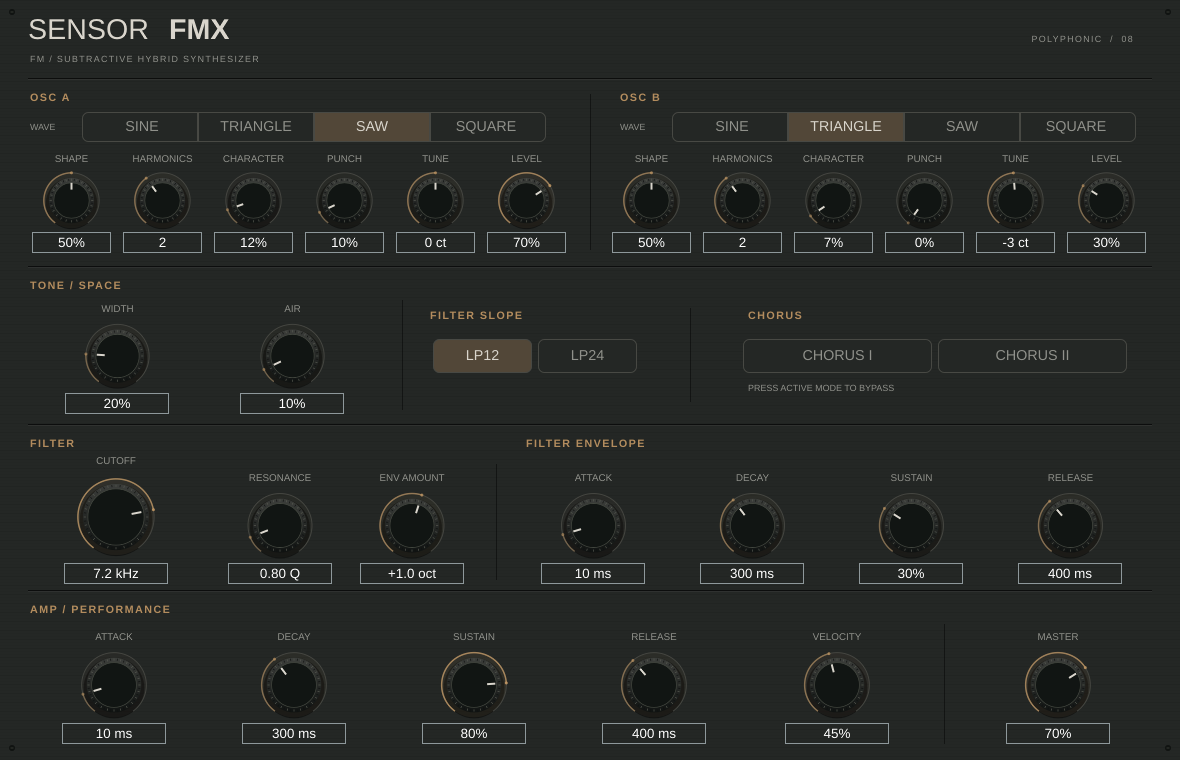
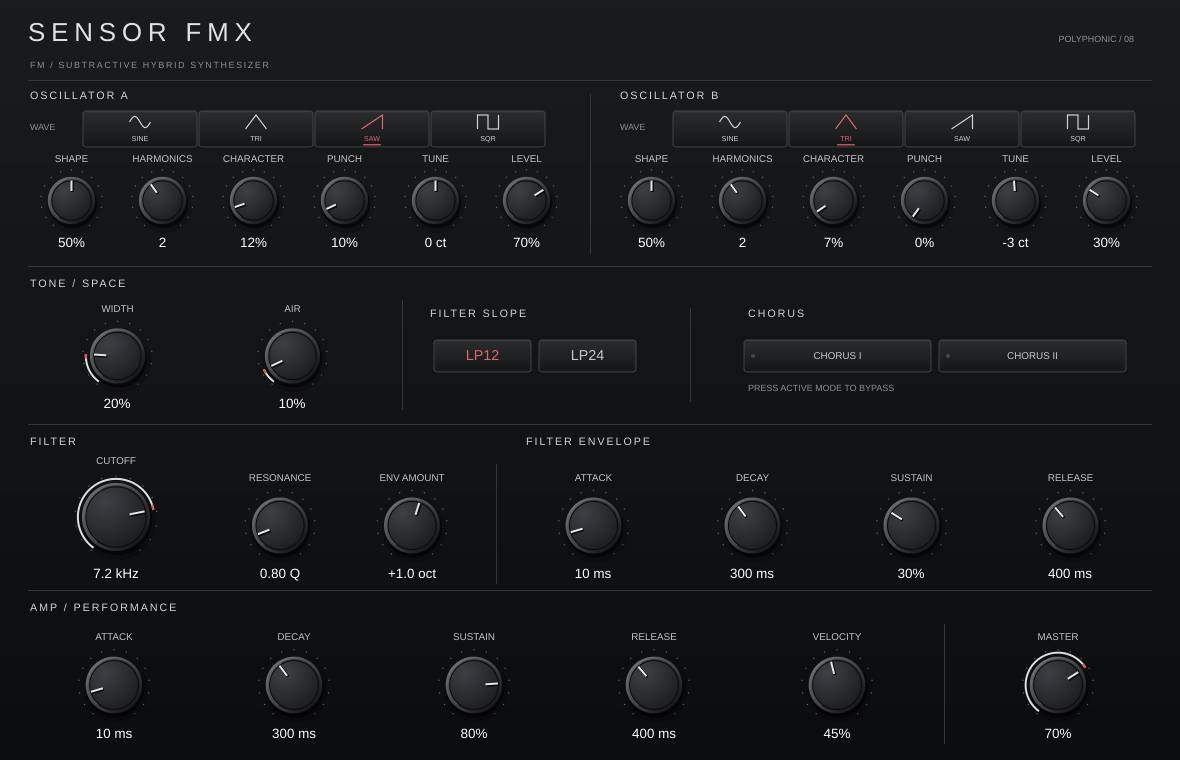
Align FMX GUI with SENSOR FLUX family styling

diff --git a/Source/SensorLookAndFeel.h b/Source/SensorLookAndFeel.h
@@ -1,0 +1,92 @@
+#pragma once
+#include <juce_gui_basics/juce_gui_basics.h>
+#include <array>
+
+// Adapted from AakeKBergh/SensorFlux, Source/InstrumentLook.h
+// Reference commit: 1e67934601b3aacd980b504b20b285921c9def06
+class SensorLookAndFeel : public juce::LookAndFeel_V4 {
+    std::array<juce::Path,4> glyphs;
+    const std::array<juce::String,4> waveNames{{"SINE","TRI","SAW","SQR"}};
+public:
+    SensorLookAndFeel(){
+        for(int i=0;i<=24;++i){float x=float(i)/24,y=.5f-float(std::sin(i*6.283185307179586/24))*.4f;if(i==0)glyphs[0].startNewSubPath(x,y);else glyphs[0].lineTo(x,y);}
+        glyphs[1].startNewSubPath(0,1);glyphs[1].lineTo(.5f,0);glyphs[1].lineTo(1,1);
+        glyphs[2].startNewSubPath(0,1);glyphs[2].lineTo(1,0);glyphs[2].lineTo(1,1);
+        glyphs[3].startNewSubPath(0,1);glyphs[3].lineTo(0,0);glyphs[3].lineTo(.5f,0);glyphs[3].lineTo(.5f,1);glyphs[3].lineTo(1,1);glyphs[3].lineTo(1,0);
+        setColour(juce::Label::textColourId,juce::Colour(0xffc3c4c6));
+        setColour(juce::Slider::textBoxTextColourId,juce::Colour(0xffd6d7da));
+        setColour(juce::Slider::textBoxBackgroundColourId,juce::Colours::transparentBlack);
+        setColour(juce::Slider::textBoxOutlineColourId,juce::Colours::transparentBlack);
+        setColour(juce::TextButton::textColourOffId,juce::Colour(0xffc8c9cb));
+        setColour(juce::TextButton::textColourOnId,juce::Colour(0xffdf686d));
+    }
+    juce::Label* createSliderTextBox(juce::Slider& slider) override {
+        auto* box=juce::LookAndFeel_V4::createSliderTextBox(slider);
+        box->setColour(juce::Label::outlineColourId,juce::Colours::transparentBlack);
+        box->setColour(juce::Label::backgroundColourId,juce::Colours::transparentBlack);
+        box->setColour(juce::TextEditor::outlineColourId,juce::Colour(0xff444648));
+        box->setColour(juce::TextEditor::focusedOutlineColourId,juce::Colour(0xffbf535c));
+        return box;
+    }
+    void drawLabel(juce::Graphics& g,juce::Label& label) override {
+        if(dynamic_cast<juce::Slider*>(label.getParentComponent())==nullptr) {
+            juce::LookAndFeel_V4::drawLabel(g,label);return;
+        }
+        if(label.isBeingEdited()) return;
+        g.setColour(label.findColour(juce::Label::textColourId).withMultipliedAlpha(label.isEnabled()?1.0f:0.5f));
+        g.setFont(getLabelFont(label));
+        g.drawFittedText(label.getText(),label.getLocalBounds(),label.getJustificationType(),1);
+    }
+    void drawRotarySlider(juce::Graphics& g,int x,int y,int w,int h,float value,float start,float end,juce::Slider& slider) override {
+        const float radius=std::min(w,h)*.36f,cx=x+w*.5f,cy=y+h*.5f;
+        const auto bounds=juce::Rectangle<float>(cx-radius,cy-radius,2*radius,2*radius);
+        for(int i=0;i<=14;++i){const float a=start+(end-start)*i/14;
+            g.setColour(juce::Colour(0xff626366));g.fillEllipse(cx+std::sin(a)*(radius+8)-.7f,cy-std::cos(a)*(radius+8)-.7f,1.4f,1.4f);}
+        const bool large=slider.getProperties().getWithDefault("sensorProminent",false) || slider.getName()=="FLUX" || slider.getName()=="Output";
+        g.setColour(juce::Colours::black.withAlpha(.16f));g.fillEllipse(bounds.translated(2,5).expanded(5));
+        g.setColour(juce::Colours::black.withAlpha(.55f));g.fillEllipse(bounds.translated(1,3).expanded(2));
+        g.setGradientFill(juce::ColourGradient(juce::Colour(0xff7b7d80),cx-radius,cy-radius,juce::Colour(0xff070809),cx+radius,cy+radius,false));g.fillEllipse(bounds.expanded(1));
+        g.setGradientFill(juce::ColourGradient(juce::Colour(0xff3e4043),cx-radius*.35f,cy-radius*.45f,juce::Colour(0xff111214),cx+radius,cy+radius,true));g.fillEllipse(bounds.reduced(1.5f));
+        g.setColour(juce::Colour(0xff090a0b));g.drawEllipse(bounds.reduced(3),1);
+        juce::Path rim;rim.addCentredArc(cx,cy,radius-2,radius-2,0,3.8f,5.8f,true);g.setColour(juce::Colours::white.withAlpha(.20f));g.strokePath(rim,juce::PathStrokeType(.9f));
+        const float a=start+value*(end-start);
+        g.setColour(juce::Colours::black.withAlpha(.8f));g.drawLine(cx+std::sin(a)*radius*.42f+1,cy-std::cos(a)*radius*.42f+1,cx+std::sin(a)*radius*.88f+1,cy-std::cos(a)*radius*.88f+1,3);
+        g.setColour(juce::Colour(0xffe5e6e8));g.drawLine(cx+std::sin(a)*radius*.42f,cy-std::cos(a)*radius*.42f,cx+std::sin(a)*radius*.88f,cy-std::cos(a)*radius*.88f,2);
+        if(large){juce::Path arc;arc.addCentredArc(cx,cy,radius+5,radius+5,0,start,a,true);g.setColour(juce::Colour(0xffdcdddf));g.strokePath(arc,juce::PathStrokeType(2));
+            if(value>0){juce::Path tip;tip.addCentredArc(cx,cy,radius+5,radius+5,0,std::max(start,a-.14f),a,true);g.setColour(juce::Colour(0xffdc5a62));g.strokePath(tip,juce::PathStrokeType(2.3f));}}
+
+    }
+    void drawButtonBackground(juce::Graphics& g,juce::Button& b,const juce::Colour&,bool over,bool down) override {
+        auto r=b.getLocalBounds().toFloat().reduced(1);
+        g.setColour(juce::Colours::black.withAlpha(.5f));g.fillRoundedRectangle(r.translated(0,2),3);
+        g.setGradientFill(juce::ColourGradient(juce::Colour(down?0xff171819:0xff2b2d2f),0,0,juce::Colour(0xff151617),0,r.getBottom(),false));g.fillRoundedRectangle(r,3);
+        g.setColour(juce::Colour(over?0xff68696b:0xff444648));g.drawRoundedRectangle(r,3,1);
+        g.setColour(juce::Colours::white.withAlpha(down?.025f:.10f));g.drawLine(r.getX()+4,r.getY()+1,r.getRight()-4,r.getY()+1,.6f);
+        if(b.getToggleState() && b.getComponentID().startsWith("wave")){g.setColour(juce::Colour(0xffbf535c));g.fillRoundedRectangle(r.getCentreX()-9,r.getBottom()-3,18,1.5f,.6f);}
+    }
+    void drawButtonText(juce::Graphics& g,juce::TextButton& b,bool over,bool down) override {
+        const bool wave=b.getComponentID().startsWith("wave");
+        if(b.getComponentID().startsWith("chorus") || b.getComponentID().startsWith("reverb")){
+            const bool active=b.isEnabled() && b.getToggleState() && b.getButtonText()!="OFF";
+            auto textBounds=b.getLocalBounds().reduced(18,0);
+            const float x=10,y=b.getHeight()*.5f;
+            g.setColour(juce::Colour(active?0xfff2666d:0xff454749));g.fillEllipse(x-2,y-2,4,4);
+            if(active){g.setColour(juce::Colour(0xffec5962).withAlpha(.12f));g.fillEllipse(x-6,y-6,12,12);}
+            g.setColour(juce::Colour(active?0xffdf686d:0xffc8c9cc));g.setFont(11);
+            g.drawText(b.getButtonText(),textBounds,juce::Justification::centred);return;
+        }
+        if(!wave){juce::LookAndFeel_V4::drawButtonText(g,b,over,down);return;}
+        auto r=b.getLocalBounds().toFloat();const float cx=r.getCentreX(),y=5,w=21,h=14;
+        const int index=b.getComponentID().getTrailingIntValue();
+        g.setColour(juce::Colour(b.getToggleState()?0xffdf686d:0xffd0d1d4));g.strokePath(glyphs[size_t(index)],juce::PathStrokeType(1.2f),juce::AffineTransform::scale(w,h).translated(cx-w*.5f,y));
+        g.setFont(8);g.drawText(waveNames[size_t(index)],0,23,b.getWidth(),12,juce::Justification::centred);
+    }
+    void drawToggleButton(juce::Graphics& g,juce::ToggleButton& b,bool over,bool down) override {
+        const float cx=b.getWidth()*.5f,cy=b.getHeight()*.63f;
+        if(b.getToggleState()){g.setColour(juce::Colour(0xffd85c62).withAlpha(.12f));g.fillEllipse(cx-9,cy-32,18,18);}
+        g.setColour(juce::Colour(b.getToggleState()?0xffe1666d:0xff454749));g.fillEllipse(cx-2.5f,cy-25,5,5);
+        g.setColour(juce::Colours::black);g.fillEllipse(cx-15,cy-11,30,30);
+        g.setGradientFill(juce::ColourGradient(juce::Colour(over||down?0xff424448:0xff323437),cx,cy-10,juce::Colour(0xff17181a),cx,cy+17,false));g.fillEllipse(cx-12,cy-9,24,25);
+        g.setColour(juce::Colour(0xffc3c4c6));g.setFont(10);g.drawText(b.getButtonText().toUpperCase(),0,0,b.getWidth(),18,juce::Justification::centred);
+    }
+};

diff --git a/Source/PluginEditor.cpp b/Source/PluginEditor.cpp
@@ -1,4 +1,5 @@
 #include "PluginEditor.h"
+#include "SensorStyle.h"
 SensorFMXEditor::SensorFMXEditor(SensorFMXProcessor& p)
     : AudioProcessorEditor(p),processor(p),waveA(p.state,"aWave"),waveB(p.state,"bWave"),
       slope(p.state,"filterSlope",{"LP12","LP24"},{0,1},false),
@@ -26,7 +27,7 @@ void SensorFMXEditor::place(int first,int count,juce::Rectangle<int> area) {
     for(int i=0;i<count;++i) knobs[static_cast<size_t>(first+i)]->setBounds(area.removeFromLeft(width).reduced(6,0));
 }
 void SensorFMXEditor::resized() {
-    waveA.setBounds(82,112,464,30); waveB.setBounds(672,112,464,30);
+    waveA.setBounds(82,110,464,38); waveB.setBounds(672,110,464,38);
     place(0,6,{26,150,548,103});
     place(6,6,{606,150,548,103});
     place(12,2,{30,300,350,114});
@@ -39,44 +40,19 @@ void SensorFMXEditor::resized() {
 
 }
 void SensorFMXEditor::paint(juce::Graphics& g) {
-    g.fillAll(juce::Colour(0xff242725));
-    // Almost invisible horizontal machining lines; deterministic and image-free.
-    for(int y=0;y<getHeight();y+=3) {
-        g.setColour(juce::Colours::black.withAlpha(y%9==0 ? 0.07f : 0.025f));
-        g.drawHorizontalLine(y,0,static_cast<float>(getWidth()));
-    }
-    g.setColour(CustomLookAndFeel::text);
-    g.setFont(juce::FontOptions(32.0f)); g.drawText("SENSOR",28,10,141,40,juce::Justification::centredLeft);
-    g.setFont(juce::FontOptions(32.0f,juce::Font::bold)); g.drawText("FMX",169,10,100,40,juce::Justification::centredLeft);
-    g.setColour(CustomLookAndFeel::muted);
-    g.setFont(juce::Font(juce::FontOptions(10.0f)).withExtraKerningFactor(0.13f));
-    g.drawText("FM / SUBTRACTIVE HYBRID SYNTHESIZER",30,49,600,20,juce::Justification::centredLeft);
-    g.drawText("POLYPHONIC  /  08",870,28,264,22,juce::Justification::centredRight);
-    auto line=[&](int y,int left,int right) {
-        g.setColour(juce::Colours::black.withAlpha(0.65f)); g.drawHorizontalLine(y,static_cast<float>(left),static_cast<float>(right));
-        g.setColour(juce::Colours::white.withAlpha(0.055f)); g.drawHorizontalLine(y+1,static_cast<float>(left),static_cast<float>(right));
-    };
-    g.setFont(juce::FontOptions(10.0f)); g.setColour(CustomLookAndFeel::muted);
+    SensorStyle::panel(g,getWidth(),getHeight());
+    SensorStyle::branding(g,"FMX","FM / SUBTRACTIVE HYBRID SYNTHESIZER");
+    g.setFont(juce::FontOptions(10.0f));g.setColour(SensorStyle::secondary);
+    g.drawText("POLYPHONIC / 08",870,28,264,22,juce::Justification::centredRight);
     g.drawText("WAVE",30,112,48,30,juce::Justification::centredLeft);
     g.drawText("WAVE",620,112,48,30,juce::Justification::centredLeft);
-    for(int y : {78,266,424,590}) line(y,28,1152);
-    g.setColour(juce::Colours::black.withAlpha(0.45f));
-    g.drawVerticalLine(590,94,250); g.drawVerticalLine(402,300,410);
-    g.drawVerticalLine(690,308,402); g.drawVerticalLine(496,464,580); g.drawVerticalLine(944,624,744);
-    auto title=[&](int x,int y,const juce::String& text) {
-        g.setColour(CustomLookAndFeel::amber.withAlpha(0.9f));
-        g.setFont(juce::Font(juce::FontOptions(12.0f,juce::Font::bold)).withExtraKerningFactor(0.12f));
-        g.drawText(text,x,y,480,24,juce::Justification::centredLeft);
-    };
-    title(30,86,"OSC A"); title(620,86,"OSC B");
-    title(30,274,"TONE / SPACE");
-    title(430,304,"FILTER SLOPE"); title(748,304,"CHORUS");
-    title(30,432,"FILTER"); title(526,432,"FILTER ENVELOPE");
-    title(30,598,"AMP / PERFORMANCE");
-    g.setFont(juce::FontOptions(10.0f)); g.setColour(CustomLookAndFeel::muted);
+    g.setColour(SensorStyle::rule);
+    for(int y : {80,266,424,590}) g.drawHorizontalLine(y,28,1152);
+    for(auto line : {juce::Rectangle<int>(590,94,1,160),{402,300,1,110},{690,308,1,94},{496,464,1,120},{944,624,1,120}}) g.fillRect(line);
+    const auto title=[&](int x,int y,const juce::String& text) { SensorStyle::heading(g,text,x,y,480); };
+    title(30,84,"OSCILLATOR A");title(620,84,"OSCILLATOR B");
+    title(30,272,"TONE / SPACE");title(430,302,"FILTER SLOPE");title(748,302,"CHORUS");
+    title(30,430,"FILTER");title(526,430,"FILTER ENVELOPE");title(30,596,"AMP / PERFORMANCE");
+    g.setFont(juce::FontOptions(10.0f));g.setColour(SensorStyle::secondary);
     g.drawText("PRESS ACTIVE MODE TO BYPASS",748,378,390,20,juce::Justification::centredLeft);
-    for(auto point : {juce::Point<float>{12,12},{1168,12},{12,748},{1168,748}}) {
-        g.setColour(juce::Colour(0xff101311)); g.fillEllipse(point.x-3,point.y-3,6,6);
-        g.setColour(juce::Colour(0xff474a43)); g.drawLine(point.x-1.5f,point.y,point.x+1.5f,point.y,0.7f);
-    }
 }

diff --git a/Source/CustomLookAndFeel.h b/Source/CustomLookAndFeel.h
@@ -1,45 +1,4 @@
 #pragma once
-#include <juce_gui_basics/juce_gui_basics.h>
-class CustomLookAndFeel : public juce::LookAndFeel_V4 {
-public:
-    inline static const juce::Colour amber{0xffc49965}, text{0xffd9d5cc}, muted{0xff90918b};
-    CustomLookAndFeel() {
-        setColour(juce::Slider::textBoxTextColourId,text);
-        setColour(juce::Slider::textBoxBackgroundColourId,juce::Colours::transparentBlack);
-        setColour(juce::Slider::textBoxOutlineColourId,juce::Colours::transparentBlack);
-        setColour(juce::TextEditor::highlightColourId,amber.withAlpha(0.25f));
-        setColour(juce::ComboBox::backgroundColourId,juce::Colour(0xff202222));
-        setColour(juce::ComboBox::textColourId,text);
-        setColour(juce::ComboBox::outlineColourId,juce::Colour(0xff484944));
-        setColour(juce::ComboBox::arrowColourId,amber);
-        setColour(juce::PopupMenu::backgroundColourId,juce::Colour(0xff202222));
-        setColour(juce::PopupMenu::highlightedBackgroundColourId,juce::Colour(0xff454039));
-        setColour(juce::PopupMenu::textColourId,text);
-    }
-    void drawRotarySlider(juce::Graphics& g,int x,int y,int w,int h,float value,float begin,float end,juce::Slider& slider) override {
-        const float radius=juce::jmin(w,h)*0.36f;
-        const juce::Point<float> centre{static_cast<float>(x)+w*0.5f,static_cast<float>(y)+h*0.5f};
-        const auto body=juce::Rectangle<float>(radius*2,radius*2).withCentre(centre);
-        g.setColour(juce::Colours::black.withAlpha(0.45f)); g.fillEllipse(body.translated(0,3).expanded(3));
-        g.setColour(amber.withAlpha(0.025f+0.07f*value)); g.fillEllipse(body.expanded(5));
-        juce::Path track,lit;
-        track.addCentredArc(centre.x,centre.y,radius+5,radius+5,0,begin,end,true);
-        lit.addCentredArc(centre.x,centre.y,radius+5,radius+5,0,begin,begin+value*(end-begin),true);
-        g.setColour(juce::Colour(0xff454641)); g.strokePath(track,juce::PathStrokeType(1));
-        g.setColour(amber.withAlpha(slider.isEnabled() ? 0.3f+0.6f*value : 0.2f)); g.strokePath(lit,juce::PathStrokeType(1.5f));
-        g.setGradientFill(juce::ColourGradient(juce::Colour(0xff3c3e3b),centre.x,body.getY(),juce::Colour(0xff101312),centre.x,body.getBottom(),false));
-        g.fillEllipse(body);
-        for(int i=0;i<48;++i) {
-            const float angle=juce::MathConstants<float>::twoPi*i/48.0f;
-            const auto unit=juce::Point<float>(std::sin(angle),-std::cos(angle));
-            g.setColour(i%2 ? juce::Colour(0xff101211) : juce::Colour(0xff565850));
-            g.drawLine({centre+unit*(radius-3),centre+unit*(radius-0.8f)},0.7f);
-        }
-        g.setColour(juce::Colour(0xff111513)); g.fillEllipse(body.reduced(5));
-        g.setColour(juce::Colour(0xff454941)); g.drawEllipse(body.reduced(5),0.7f);
-        const float angle=begin+value*(end-begin);
-        const auto unit=juce::Point<float>(std::sin(angle),-std::cos(angle));
-        g.setColour(text); g.drawLine({centre+unit*(radius*0.48f),centre+unit*(radius*0.78f)},2.0f);
-        g.setColour(amber.withAlpha(0.5f+value*0.5f)); g.fillEllipse(juce::Rectangle<float>(3,3).withCentre(centre+unit*(radius+5)));
-    }
-};
+#include "SensorLookAndFeel.h"
+// Compatibility name for FMX components. New SENSOR products can use the family class directly.
+using CustomLookAndFeel = SensorLookAndFeel;

diff --git a/Source/CameraKnob.h b/Source/CameraKnob.h
@@ -7,6 +7,7 @@ public:
         slider.setSliderStyle(juce::Slider::RotaryHorizontalVerticalDrag);
         slider.setTextBoxStyle(juce::Slider::TextBoxBelow,false,104,21);
         slider.setName(title); slider.setTitle(title);
+        slider.getProperties().set("sensorProminent",id=="cutoff" || id=="width" || id=="air" || id=="master");
         if(id.endsWith("Shape")) slider.setTooltip("Reshape the waveform. Centre is neutral; Square adjusts pulse width.");
         if(id.endsWith("Harmonics")) slider.setTooltip("Choose a musical harmonic relationship for the coloration. Try 1, 2 or 3 first.");
         if(id.endsWith("Character")) slider.setTooltip("Add harmonic richness. Lower settings stay gentle; high settings become experimental.");
@@ -17,7 +18,7 @@ public:
         if(id=="velocity") slider.setTooltip("Control how strongly playing dynamics affect loudness and filter brightness.");
         label.setText(title,juce::dontSendNotification);
         label.setJustificationType(juce::Justification::centred);
-        label.setFont(juce::FontOptions(11.0f)); label.setColour(juce::Label::textColourId,CustomLookAndFeel::muted);
+        label.setFont(juce::FontOptions(11.0f)); label.setColour(juce::Label::textColourId,juce::Colour(0xffc3c4c6));
         addAndMakeVisible(slider); addAndMakeVisible(label);
         attachment=std::make_unique<juce::AudioProcessorValueTreeState::SliderAttachment>(state,id,slider);
         slider.textFromValueFunction=[id](double v) {

diff --git a/Tests/SmokeTests.cpp b/Tests/SmokeTests.cpp
@@ -209,7 +209,19 @@ int main() {
         require(restored.state.getRawParameterValue("width")->load()==0 && restored.state.getRawParameterValue("air")->load()==0 && restored.state.getRawParameterValue("velocity")->load()==1,"Legacy macro defaults incorrect"); ++checks;
         // Exercise all APVTS attachments and layout under an X display.
         SensorFMXProcessor ui;
+        std::vector<float> beforeEditor;
+        for(auto* parameter : ui.getParameters()) beforeEditor.push_back(parameter->getValue());
         std::unique_ptr<juce::AudioProcessorEditor> editor(ui.createEditor());
+        for(int i=0;i<ui.getParameters().size();++i)
+            require(ui.getParameters()[i]->getValue()==beforeEditor[static_cast<size_t>(i)],"Editor reset a parameter");
+        ++checks;
+        const auto children=editor->getChildren();
+        for(int i=0;i<children.size();++i) {
+            require(editor->getLocalBounds().contains(children[i]->getBounds()),"Control outside editor");
+            for(int j=i+1;j<children.size();++j)
+                require(!children[i]->getBounds().intersects(children[j]->getBounds()),"Overlapping control groups");
+        }
+        ++checks;
         require(editor->getWidth()==1180,"Editor failed to initialise");
         int sliders=0,buttons=0;
         std::function<void(juce::Component&)> visit=[&](juce::Component& component) {

diff --git a/Source/SensorStyle.h b/Source/SensorStyle.h
@@ -1,0 +1,21 @@
+#pragma once
+#include <juce_gui_basics/juce_gui_basics.h>
+// Shared SENSOR-family panel and typography tokens, taken from FLUX's editor.
+namespace SensorStyle {
+inline const juce::Colour panelTop{0xff1a1b1d},panelBottom{0xff0c0d0f},rule{0xff353638};
+inline const juce::Colour ink{0xffe0e1e3},secondary{0xff8e9094},headingInk{0xffd4d5d7};
+inline void panel(juce::Graphics& g,int width,int height) {
+    g.setGradientFill(juce::ColourGradient(panelTop,0,0,panelBottom,0,static_cast<float>(height),false));
+    g.fillRect(0,0,width,height);
+}
+inline void heading(juce::Graphics& g,const juce::String& title,int x,int y,int width) {
+    g.setFont(juce::Font(juce::FontOptions(12.0f)).withExtraKerningFactor(0.16f));
+    g.setColour(headingInk);g.drawText(title,x,y,width,24,juce::Justification::centredLeft);
+}
+inline void branding(juce::Graphics& g,const juce::String& model,const juce::String& subtitle) {
+    g.setColour(ink);g.setFont(juce::Font(juce::FontOptions(29.0f)).withExtraKerningFactor(0.2f));
+    g.drawText("SENSOR "+model,28,14,650,38,juce::Justification::centredLeft);
+    g.setColour(secondary);g.setFont(juce::Font(juce::FontOptions(10.0f)).withExtraKerningFactor(0.16f));
+    g.drawText(subtitle,30,56,650,18,juce::Justification::centredLeft);
+}
+}

diff --git a/Source/HardwareButtons.h b/Source/HardwareButtons.h
@@ -9,10 +9,7 @@ public:
         for(size_t i=0;i<values.size();++i) {
             auto button=std::make_unique<juce::TextButton>(titles[static_cast<int>(i)]);
             button->setName(id+" "+titles[static_cast<int>(i)]);
-            button->setColour(juce::TextButton::buttonColourId,juce::Colour(0xff242725));
-            button->setColour(juce::TextButton::buttonOnColourId,juce::Colour(0xff524635));
-            button->setColour(juce::TextButton::textColourOffId,CustomLookAndFeel::muted);
-            button->setColour(juce::TextButton::textColourOnId,CustomLookAndFeel::text);
+            button->setComponentID(id+juce::String(static_cast<int>(i)));
             button->setTooltip(toggleOff ? "Press the active mode again to bypass chorus." : "Select low-pass filter slope.");
             button->onClick=[this,i] { attachment->setValueAsCompleteGesture(static_cast<float>(toggleOff && selected==values[i] ? 0 : values[i])); };
             addAndMakeVisible(*button); buttons.push_back(std::move(button));

diff --git a/Source/WaveSelector.h b/Source/WaveSelector.h
@@ -9,11 +9,7 @@ public:
         const char* names[]{"SINE","TRIANGLE","SAW","SQUARE"};
         for(int i=0;i<4;++i) {
             auto& b=buttons[static_cast<size_t>(i)]; b.setButtonText(names[i]); b.setName(id+" "+names[i]);
-            b.setColour(juce::TextButton::buttonColourId,juce::Colour(0xff242725));
-            b.setColour(juce::TextButton::buttonOnColourId,juce::Colour(0xff524635));
-            b.setColour(juce::TextButton::textColourOffId,CustomLookAndFeel::muted);
-            b.setColour(juce::TextButton::textColourOnId,CustomLookAndFeel::text);
-            b.setConnectedEdges((i>0 ? juce::Button::ConnectedOnLeft : 0) | (i<3 ? juce::Button::ConnectedOnRight : 0));
+            b.setComponentID("wave_"+juce::String(i));
             b.onClick=[this,i] { attachment->setValueAsCompleteGesture(static_cast<float>(i)); };
             addAndMakeVisible(b);
         }

diff --git a/README.md b/README.md
@@ -116,7 +116,9 @@ Eight MIDI voices remain available, including release tails. Additional notes ar
 
 ## GUI and automation
 
-A single graphite front panel uses fine etched dividers, quiet machining lines, off-white industrial labels and warm amber illumination. Custom knurled rotary dials have fine perimeter ridges and an illuminated index/arc. Four aligned functional areas contain mirrored oscillators; Tone / Space with larger Width/Air dials and slope/chorus buttons; the filter with a dominant Cutoff; and Amp / Performance with Velocity and a separated Master. Each oscillator has four waveform buttons plus six dials; Harmonics is stepped. Value labels use Hz/kHz, cents, percentages, ms/seconds and simple harmonic positions. Editable values support those displayed units. Drag dials to automate, double-click to restore defaults, or edit the value text.
+The GUI uses SENSOR FLUX's actual production drawing code: cooler graphite surfaces, tracked family branding, metallic bevelled rotary dials, dotted scales, waveform glyph buttons, and restrained red indicators. Larger Cutoff, Width, Air and Master controls use white arcs with red tips. Unboxed value readouts retain FMX's musical units and editing behavior.
+
+Four compact, aligned areas contain mirrored oscillators; Tone / Space with Width/Air and slope/chorus controls; Filter plus Filter ADSR; and Amp / Performance with Velocity and a separated Master. Active chorus buttons retain readable labels and a small LED. See [SENSOR family design](docs/sensor-family-design.md) for source provenance, palette tokens, reusable components and model-specific adaptations. This redesign changes no synthesis or parameter behavior.
 
 Shared parameter IDs (`aLevel`, `aFine`, filter, envelopes, master, and B equivalents) are retained. New oscillator IDs are `aWave`, `aShape`, `aHarmonics`, `aCharacter`, `aPunch` and B equivalents. Removed technical parameters are not exposed as host controls. Schema v3 state restores every parameter; missing parameters use deterministic new-patch defaults. Legacy v1 project state keeps common values, maps old ratios to the nearest supported harmonic ratio, and approximates old FM depth with a sine carrier and Character. V1/V2 states load Width, Air and Chorus off, LP12, and full legacy velocity response. V2 Character is remapped to preserve its previous cubic modulation depth under the new quartic curve. Only saved scalar Character values can be remapped; older host automation envelopes retain their original normalized values and may sound different after the curve change. The old FM decay behavior cannot be reproduced exactly, and old automation lanes for removed IDs cannot migrate automatically.
 
@@ -127,9 +129,9 @@ Shared parameter IDs (`aLevel`, `aFine`, filter, envelopes, master, and B equiva
 - `SynthVoice.h`, `SynthSound.h`: per-voice DSP, envelopes and MIDI behavior.
 - `Parameters.h`: stable APVTS parameter definitions, ranges and defaults.
 - `PluginProcessor.*`: voice mixing, master gain, state versioning and legacy fallback.
-- `PluginEditor.*`, `CameraKnob.h`, `WaveSelector.h`, `HardwareButtons.h`, `CustomLookAndFeel.h`: UI components, host attachments and procedural hardware styling.
+- `PluginEditor.*`, `CameraKnob.h`, `WaveSelector.h`, `HardwareButtons.h`, `SensorLookAndFeel.h`, `SensorStyle.h`: UI components, host attachments and procedural hardware styling.
 - `Tests/SmokeTests.cpp`, `PaletteTests.h`, `PalettePatches.h`: conventional waveform references, harmonic spectra, Character/Punch/Shape, ratio mapping, automation, polyphony, pitch, sustain/release, state and GUI rendering.
 
-Linux VST3 and Standalone builds pass, and the smoke suite passes 63 checks. Validation covers three sample rates (44.1/48/96 kHz), waveform and macro spectra, stereo/mono behavior, chorus modes, LP12/LP24 frequency slopes, velocity, eight-note polyphony, state migration, GUI attachments and the four musical recipes. Windows/macOS compilation, display scaling and DAW playback still require verification on those platforms.
+Linux VST3 and Standalone builds pass, and the smoke suite passes 65 checks. Validation covers three sample rates (44.1/48/96 kHz), waveform and macro spectra, stereo/mono behavior, chorus modes, LP12/LP24 frequency slopes, velocity, eight-note polyphony, state migration, GUI attachments and the four musical recipes. Windows/macOS compilation, display scaling and DAW playback still require verification on those platforms.
 
 JUCE is a separate dependency; review its licensing terms before distribution.

diff --git a/docs/sensor-family-design.md b/docs/sensor-family-design.md
@@ -1,0 +1,31 @@
+# SENSOR family graphical design
+
+FMX now follows the actual SENSOR FLUX GUI, rather than the earlier warm amber camera-panel interpretation.
+
+## Source reference and reuse
+
+Reference repository: [AakeKBergh/SensorFlux](https://github.com/AakeKBergh/SensorFlux), commit `1e67934601b3aacd980b504b20b285921c9def06`.
+
+- `Source/InstrumentLook.h` supplies the production rotary dial geometry, dotted tick marks, shadows, metallic face/bevel, pointer, prominent value arcs, waveform paths, button bevels and red active-state treatment. These implementations are adapted in `Source/SensorLookAndFeel.h`.
+- `FluxEditor::paint` in `Source/Plugin.cpp` supplies the dark vertical graphite palette, neutral etched rules, tracked product branding and section typography. FMX extracts these into `Source/SensorStyle.h`.
+- The reference's production screenshot (`docs/images/sensor-flux-gui.png`) was inspected alongside the code.
+
+These headers contain no DSP or parameter routing. Future SENSOR instruments can reuse `SensorLookAndFeel` and `SensorStyle` directly. `CustomLookAndFeel.h` remains an FMX compatibility alias, not another independent theme. The reference source is recorded here so future family-wide styling changes can be reconciled deliberately; there is no runtime dependency on the FLUX repository.
+
+## Family rules
+
+- Panel: graphite `#1A1B1D` to `#0C0D0F`; rules `#353638`.
+- Product ink: `#E0E1E3`; secondary ink: `#8E9094`; control labels: `#C3C4C6`.
+- Active-state red: `#DF686D`, with FLUX's restrained red index tip and LED accents. This replaces the previous FMX amber.
+- Rotary behavior: horizontal/vertical drag and editable numeric readouts remain unchanged. Normal dials use FLUX's dotted scales and bevelled faces. Cutoff, Width, Air and Master use its prominent white value arc with a short red tip.
+- Wave selectors use FLUX's four waveform glyphs, short labels and active underline. The underlying FMX choices and full accessible button names are retained.
+- Chorus buttons keep FLUX's bevel/LED language, but retain their labels while active so I/II never becomes ambiguous. Slope buttons retain readable LP12/LP24 states. Press-again chorus bypass behavior is unchanged.
+- Value readouts are printed directly beneath the dial, with an editor focus outline only while editing. Existing FMX units and parsing are retained: percentages, harmonic values, cents, Hz/kHz, ms/s, Q and octaves. No parameter range or scaling changes accompany the visual update.
+
+## FMX-specific composition
+
+The 1180 × 760 layout preserves mirrored Oscillator A/B groups, Tone / Space (Width, Air, slope and chorus), Filter plus Filter ADSR, and Amplifier ADSR / Velocity / Master. It does not reproduce FLUX's sample display, source controls, scope, sub oscillator or effects layout, and adds no placeholder controls. The product remains branded SENSOR FMX with its own subtitle.
+
+## Verification
+
+Linux Release VST3 and standalone targets build; the full smoke suite passes 65 checks, including existing DSP/patch/state/automation checks plus editor parameter invariance and non-overlapping control bounds. The screenshot is generated from the actual JUCE editor. DSP sources, parameter IDs/order/defaults, state serialization and sound-engine behavior are unchanged. Windows native rendering, DPI scaling and DAW interaction still require checking on Windows.
